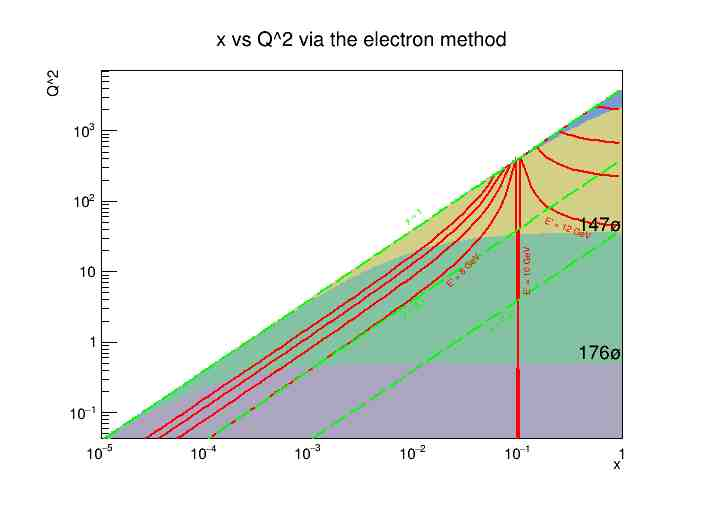
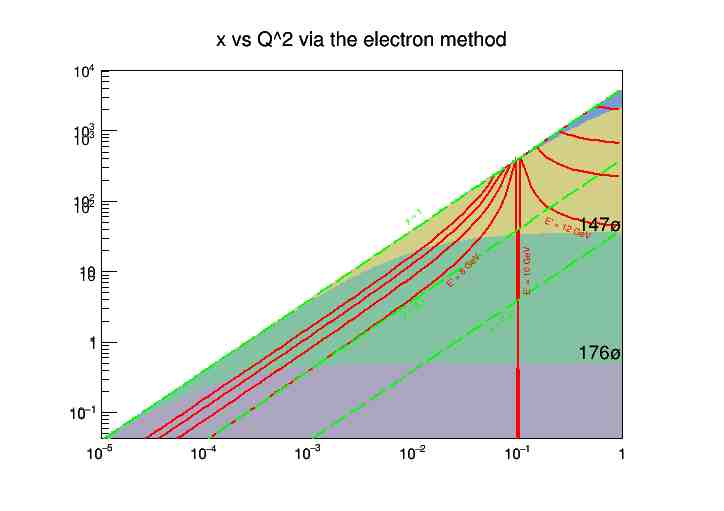
Created notebook to test ntuple file

diff --git a/ntuple/eventsTwelve.h b/ntuple/eventsTwelve.h
@@ -1,0 +1,126 @@
+//////////////////////////////////////////////////////////
+// This class has been automatically generated on
+// Mon Nov 21 10:43:57 2022 by ROOT version 6.26/10
+// from TTree events;12/Events 12 Data
+// found on file: pythia8NCDIS_10x100_minQ2=100_beamEffects_xAngle=-0.025_hiDiv_vtxfix_1_000.0001.eicrecon.tree.edm4eic.root
+//////////////////////////////////////////////////////////
+
+#ifndef eventsTwelve_h
+#define eventsTwelve_h
+
+#include <TROOT.h>
+#include <TChain.h>
+#include <TFile.h>
+
+// Header file for the classes stored in the TTree if any.
+
+class eventsTwelve {
+public :
+   TTree          *fChain;   //!pointer to the analyzed TTree or TChain
+   Int_t           fCurrent; //!current Tree number in a TChain
+
+// Fixed size dimensions of array or collections stored in the TTree if any.
+
+   // Declaration of leaf types
+
+   // List of branches
+
+   eventsTwelve(TTree *tree=0);
+   virtual ~eventsTwelve();
+   virtual Int_t    Cut(Long64_t entry);
+   virtual Int_t    GetEntry(Long64_t entry);
+   virtual Long64_t LoadTree(Long64_t entry);
+   virtual void     Init(TTree *tree);
+   virtual void     Loop();
+   virtual Bool_t   Notify();
+   virtual void     Show(Long64_t entry = -1);
+};
+
+#endif
+
+#ifdef eventsTwelve_cxx
+eventsTwelve::eventsTwelve(TTree *tree) : fChain(0) 
+{
+// if parameter tree is not specified (or zero), connect the file
+// used to generate this class and read the Tree.
+   if (tree == 0) {
+      TFile *f = (TFile*)gROOT->GetListOfFiles()->FindObject("pythia8NCDIS_10x100_minQ2=100_beamEffects_xAngle=-0.025_hiDiv_vtxfix_1_000.0001.eicrecon.tree.edm4eic.root");
+      if (!f || !f->IsOpen()) {
+         f = new TFile("pythia8NCDIS_10x100_minQ2=100_beamEffects_xAngle=-0.025_hiDiv_vtxfix_1_000.0001.eicrecon.tree.edm4eic.root");
+      }
+      f->GetObject("events;12",tree);
+
+   }
+   Init(tree);
+}
+
+eventsTwelve::~eventsTwelve()
+{
+   if (!fChain) return;
+   delete fChain->GetCurrentFile();
+}
+
+Int_t eventsTwelve::GetEntry(Long64_t entry)
+{
+// Read contents of entry.
+   if (!fChain) return 0;
+   return fChain->GetEntry(entry);
+}
+Long64_t eventsTwelve::LoadTree(Long64_t entry)
+{
+// Set the environment to read one entry
+   if (!fChain) return -5;
+   Long64_t centry = fChain->LoadTree(entry);
+   if (centry < 0) return centry;
+   if (fChain->GetTreeNumber() != fCurrent) {
+      fCurrent = fChain->GetTreeNumber();
+      Notify();
+   }
+   return centry;
+}
+
+void eventsTwelve::Init(TTree *tree)
+{
+   // The Init() function is called when the selector needs to initialize
+   // a new tree or chain. Typically here the branch addresses and branch
+   // pointers of the tree will be set.
+   // It is normally not necessary to make changes to the generated
+   // code, but the routine can be extended by the user if needed.
+   // Init() will be called many times when running on PROOF
+   // (once per file to be processed).
+
+   // Set branch addresses and branch pointers
+   if (!tree) return;
+   fChain = tree;
+   fCurrent = -1;
+   fChain->SetMakeClass(1);
+
+   Notify();
+}
+
+Bool_t eventsTwelve::Notify()
+{
+   // The Notify() function is called when a new file is opened. This
+   // can be either for a new TTree in a TChain or when when a new TTree
+   // is started when using PROOF. It is normally not necessary to make changes
+   // to the generated code, but the routine can be extended by the
+   // user if needed. The return value is currently not used.
+
+   return kTRUE;
+}
+
+void eventsTwelve::Show(Long64_t entry)
+{
+// Print contents of entry.
+// If entry is not specified, print current entry
+   if (!fChain) return;
+   fChain->Show(entry);
+}
+Int_t eventsTwelve::Cut(Long64_t entry)
+{
+// This function may be called from Loop.
+// returns  1 if entry is accepted.
+// returns -1 otherwise.
+   return 1;
+}
+#endif // #ifdef eventsTwelve_cxx

diff --git a/diskinematics/electronmethod.c b/diskinematics/electronmethod.c
@@ -64,20 +64,20 @@ void DrawText(Double_t pose[3], char *ctext,  char *cgraph) {
 
 void genericElectronMethod(Double_t Ee, Double_t Ep) {
     // Creating the functions via TF1
-    TF1 *fromy = new TF1("x vs Q^2 via the electron method; x; Q^2", funcy, 1e-5, 1, 3);
+    TF1 *fromy = new TF1("x vs Q^2 via the electron method", funcy, 1e-5, 1, 3);
     fromy->SetParameter(1, Ee);
     fromy->SetParameter(2, Ep);
     fromy->SetLineColor(3);
     fromy->SetLineStyle(9);
     double ys[3] = {1, 0.1, 0.01};
 
-    TF1 *fromEprime = new TF1("x vs Q^2 via the electron method; x; Q^2", funcEprime, 1e-5, 1, 3);
+    TF1 *fromEprime = new TF1("x vs Q^2 via the electron method", funcEprime, 1e-5, 1, 3);
     fromEprime->SetParameter(1, Ee);
     fromEprime->SetParameter(2, Ep);
     fromEprime->SetLineColor(2);
     double Eprimes[9] = {2, 4, 6, 8, 10, 12, 20, 40, 100};
 
-    TF1 *fromThetaprime = new TF1("x vs Q^2 via the electron method; x; Q^2", funcThetaprime, 1e-5, 1, 3);
+    TF1 *fromThetaprime = new TF1("x vs Q^2 via the electron method", funcThetaprime, 1e-5, 1, 3);
     fromThetaprime->SetParameter(1, Ee);
     fromThetaprime->SetParameter(2, Ep);
     fromThetaprime->SetFillStyle(1001);
@@ -103,7 +103,7 @@ void genericElectronMethod(Double_t Ee, Double_t Ep) {
     };
 
     // Create the plot
-    auto name = "10x100";
+    auto name = "c10x100";
     if (Ee == 10 && Ep == 100) { name = "c10x100"; }
     else if (Ee == 5 && Ep == 41) { name = "c5x41"; }
     else if (Ee == 18 && Ep == 275) { name = "c18x275"; }
@@ -115,10 +115,6 @@ void genericElectronMethod(Double_t Ee, Double_t Ep) {
     pad1->cd();
     pad1->SetLogx();
     pad1->SetLogy();
-
-    TFrame *frame = pad1->GetFrame();
-    frame->SetBorderMode(-1);
-    frame->SetBorderSize(5);
 
     for (int i = 0; i < 4; i++) {
         fromThetaprime->SetParameter(0, thetaprimes[i]);

diff --git a/ntuple/eventsTwelve.C b/ntuple/eventsTwelve.C
@@ -1,0 +1,50 @@
+#define eventsTwelve_cxx
+#include "eventsTwelve.h"
+#include <TH2.h>
+#include <TStyle.h>
+#include <TCanvas.h>
+
+void eventsTwelve::Loop()
+{
+//   In a ROOT session, you can do:
+//      root> .L eventsTwelve.C
+//      root> eventsTwelve t
+//      root> t.GetEntry(12); // Fill t data members with entry number 12
+//      root> t.Show();       // Show values of entry 12
+//      root> t.Show(16);     // Read and show values of entry 16
+//      root> t.Loop();       // Loop on all entries
+//
+
+//     This is the loop skeleton where:
+//    jentry is the global entry number in the chain
+//    ientry is the entry number in the current Tree
+//  Note that the argument to GetEntry must be:
+//    jentry for TChain::GetEntry
+//    ientry for TTree::GetEntry and TBranch::GetEntry
+//
+//       To read only selected branches, Insert statements like:
+// METHOD1:
+//    fChain->SetBranchStatus("*",0);  // disable all branches
+//    fChain->SetBranchStatus("branchname",1);  // activate branchname
+// METHOD2: replace line
+//    fChain->GetEntry(jentry);       //read all branches
+//by  b_branchname->GetEntry(ientry); //read only this branch
+   if (fChain == 0) return;
+
+   Long64_t nentries = fChain->GetEntriesFast();
+   Float_t genpart;
+
+   fChain->SetBranchAddress("GeneratedParticles", &genpart);
+   fChain->Print();
+
+   Long64_t nbytes = 0, nb = 0;
+   for (Long64_t jentry=0; jentry<nentries;jentry++) {
+      Long64_t ientry = LoadTree(jentry);
+      if (ientry < 0) break;
+      nb = fChain->GetEntry(jentry);   nbytes += nb;
+      // if (Cut(ientry) < 0) continue;
+      // for (Int_t j = 0; j < GeneratedParticles_; j++) {
+      //    printf(GeneratedParticles_PDG[j]);
+      // }
+   }
+}

diff --git a/ntuple/ntuple.c b/ntuple/ntuple.c
@@ -1,0 +1,10 @@
+void ntuple() {
+    gBenchmark->Start("ntuple");
+
+    TFile *f = new TFile("pythia8NCDIS_10x100_minQ2=100_beamEffects_xAngle=-0.025_hiDiv_vtxfix_1_000.0001.eicrecon.tree.edm4eic.root");
+    TTree *evTree = new TTree("events;12", "Events 12 Data");
+
+    evTree->Print("toponly");
+
+    gBenchmark->Show("ntuple");
+}
